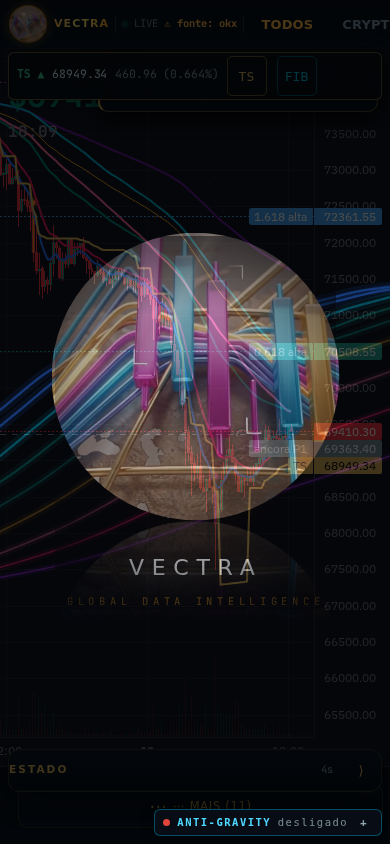
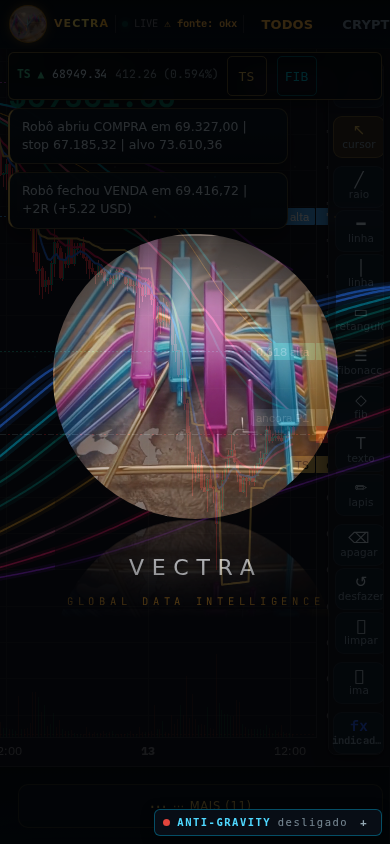
Dock do celular preso no rodape, nao abaixo da tela

diff --git a/atlas-ui/vectra-tipografia.js b/atlas-ui/vectra-tipografia.js
@@ -114,8 +114,14 @@
     }
     var dock = document.getElementById('vx-dock');
     if (dock) {
-      dock.style.setProperty('bottom', 'auto', 'important');
-      dock.style.setProperty('max-height', 'calc(100vh - 130px)', 'important');
+      if (window.innerWidth > 820) {
+        dock.style.setProperty('bottom', 'auto', 'important');
+        dock.style.setProperty('max-height', 'calc(100vh - 130px)', 'important');
+      } else {
+        dock.style.setProperty('top', 'auto', 'important');
+        dock.style.setProperty('bottom', '12px', 'important');
+        dock.style.setProperty('max-height', '60vh', 'important');
+      }
     }
     var barra = document.getElementById('drawing-toolbar');
     if (barra && window.innerWidth <= 820) {

diff --git a/atlas-ui/index.html b/atlas-ui/index.html
@@ -1876,7 +1876,7 @@
 <script defer src="./estudos-ui.js?v=2"></script>
 <script defer src="./robo-ui.js?v=3"></script>
 <script type="module" src="./core/rsi-matrix.js?v=1"></script>
-<script src="vectra-tipografia.js?v=3" defer></script>
+<script src="vectra-tipografia.js?v=4" defer></script>
 <script src="rsi-matrix-ui.js?v=1" defer></script>
 <script src="ui-extras.js?v=9" defer></script>
 <script src="alerta-central.js?v=1" defer></script>
